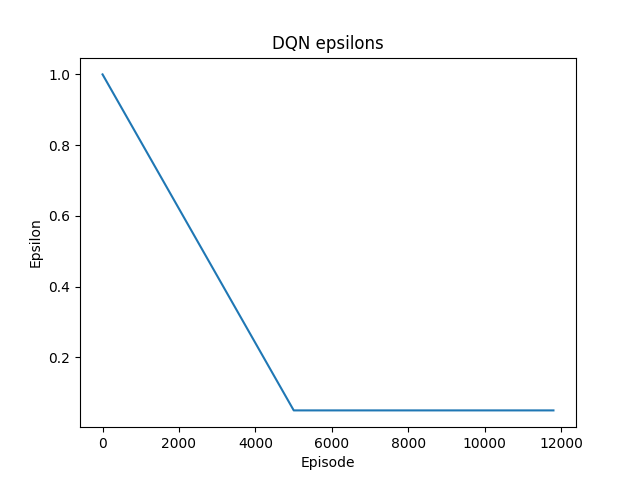
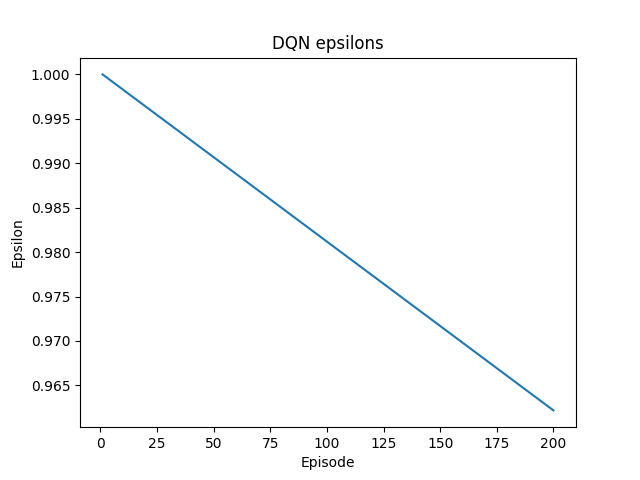
updates

diff --git a/train.py b/train.py
@@ -33,9 +33,9 @@ DISCOUNT = 0.95
 EPOCHS = 1
 EPSILON_START = 1.0
 EPSILON_MIN = 0.05
-EPSILON_STOP_EP = 5000
+EPSILON_STOP_EP = 2000
 REPLAY_START = 1000
-TRAIN_EPISODES = 20000
+TRAIN_EPISODES = 5000
 TARGET_UPDATE = 200
 SAVE_PATH = "tetris_dqn.keras"
 
@@ -209,16 +209,16 @@ def play_episode(
         reward = (
             line_rewards.get(normal_cleared, 800)
             + garbage_cleared * 50
-            + 1
             - gs["holes"] * 0.5
             - gs["bumpiness"] * 0.1
             - max(height_delta, 0) * 0.5
-            + opp_agg_after * 1.0
+            + min(height_delta, 0) * 0.25
+            + opp_agg_after * 0.5
         )
         if p1.game_over:
             reward = -500
         elif p2.game_over:
-            reward += 20
+            reward += 500
 
         prev_height = gs["aggregate_height"]
 
